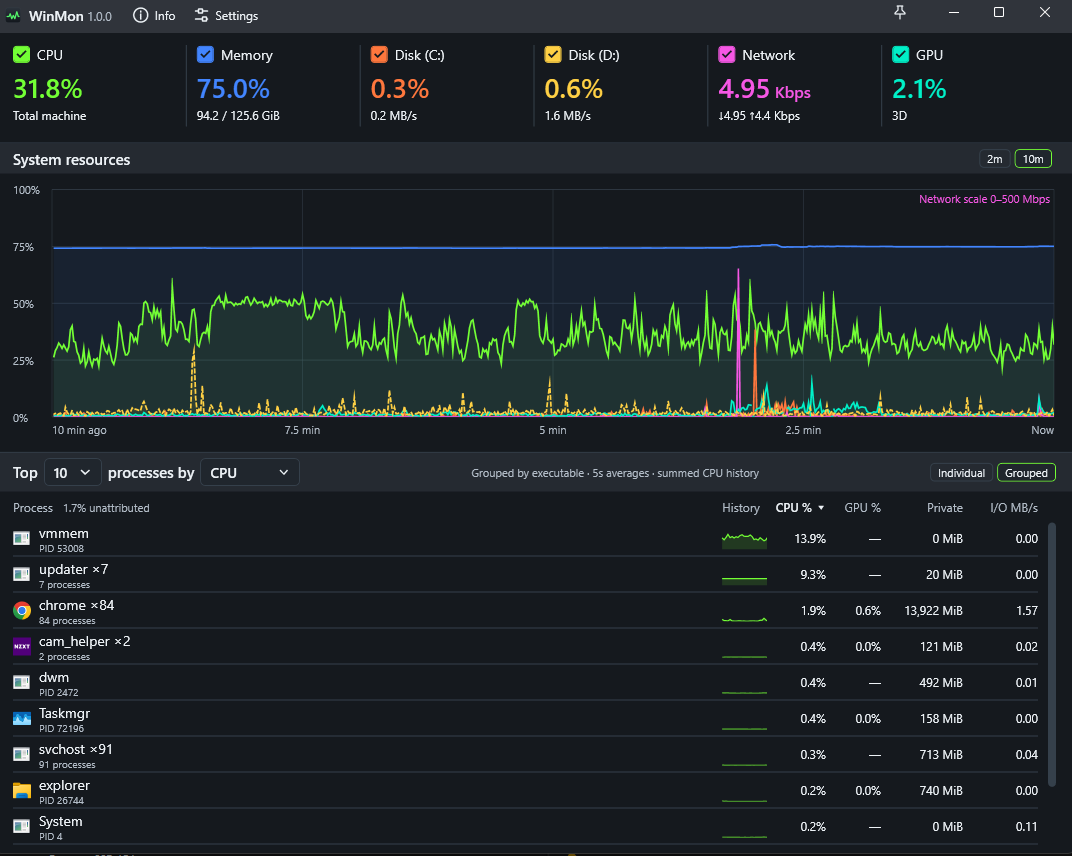
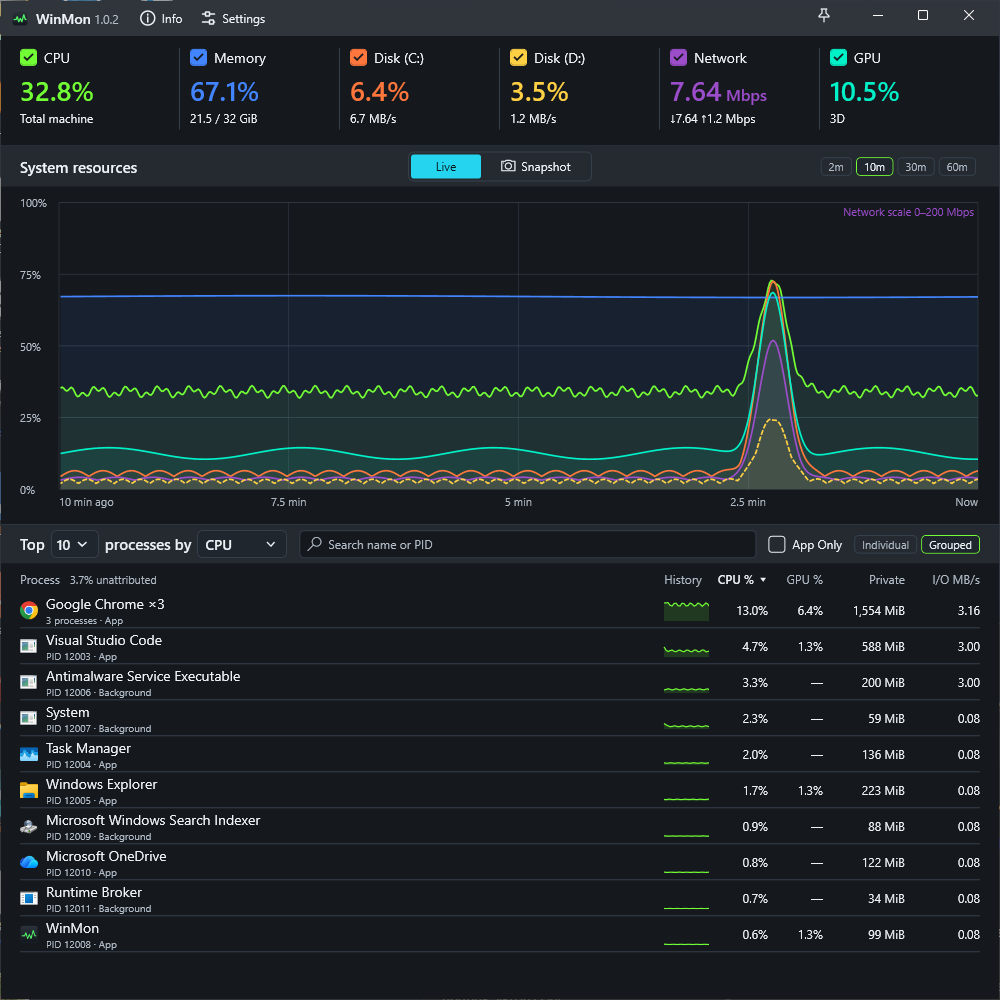
Refresh README and examples for the WinMon 1.0.2 UI

diff --git a/README.md b/README.md
@@ -10,6 +10,8 @@ WinMon brings CPU, memory, disk, network and GPU activity into one clear Windows
 
 ![WinMon live dashboard showing CPU, memory, two disks, network and GPU activity above individual process rankings](example/example_individual.png)
 
+*Screenshots show WinMon 1.0.2 with illustrative sample data.*
+
 ## Your system, at a glance
 
 Keep the whole picture in view while you work, play or troubleshoot. WinMon puts live resource readings above a shared timeline, so you can see how CPU spikes, disk activity and network transfers line up.
@@ -27,19 +29,42 @@ Browsers and other applications often spread their work across many processes. S
 
 Grouped GPU shows the busiest member; grouped memory uses private bytes to avoid counting shared working-set pages repeatedly.
 
+## Find the process you need
+
+Search the ranked list by application name, executable name or PID. Turn on **App Only** to focus on processes observed with an application window, and use the **App** / **Background** labels to understand each row. In Grouped mode, an executable is an app when any current member has an app window.
+
+The ranking controls, search field, App Only filter and grouping switches fit on one row at compact 720-DIP widths.
+
+![WinMon compact view with a chrome search and App Only enabled, showing the grouped Google Chrome result](example/example_apps_only.png)
+
 ## Catch the spike—even after it passes
 
-Click the chart to inspect a recorded moment. The snapshot shows resource readings for that interval, and the process table follows your selection so you can investigate what was busy then. The top readouts stay live while you explore.
+Choose **Snapshot** in the centered **Live | Snapshot** switch above the chart to inspect the newest recorded sample, or click the chart to select an earlier moment. The snapshot shows resource readings for that interval, and the process table follows your selection so you can investigate what was busy then. Recording and the top readouts stay live while you explore.
 
 ![WinMon historical snapshot showing interval resource readings and the process table at the selected time](example/example_snapshot.png)
 
-Use **Left / Right** to step through samples, **Home** to jump to the oldest visible sample, and **End**, **Escape** or **Return to live** to resume the live view.
+Click **Snapshot** again to select the newest sample. Use **Left / Right** to step through samples, **Home** to jump to the oldest visible sample, and **Live**, **End**, **Escape** or **Return to live** to resume the live view.
 
 History is kept in memory for the current session, with configurable retention up to 60 minutes. Available history can be shorter on busy systems and is cleared when WinMon exits.
 
 ## Make it yours
 
-Choose **Light**, **Dark** or **System** appearance, then pick a chart palette independently. Options include Classic, Ocean, Colorblind and high-contrast palettes, with consistent colors across resource readings, chart traces and process sparklines.
+Choose **Light**, **Dark** or **System** appearance, then pick a chart palette independently. Options include Classic, Ocean, Colorblind and high-contrast palettes, plus the new **Neon**, **Arcade** and **Tropical** choices. Palette names sort alphabetically in Settings; swatches and descriptions help you choose. Colors stay consistent across resource readings, chart traces and process sparklines.
+
+![WinMon light theme showing the same grouped dashboard with readable resource colors and the centered Live and Snapshot switch](example/example_light.png)
+
+<details>
+<summary>Compare the new palettes and view Settings</summary>
+
+| Neon | Arcade | Tropical |
+| --- | --- | --- |
+| [![Neon palette with vivid cyan, pink, lime and violet chart colors](example/example_neon.png)](example/example_neon.png) | [![Arcade palette with saturated primary and secondary chart colors](example/example_arcade.png)](example/example_arcade.png) | [![Tropical palette with warm colors balanced by blue and teal](example/example_tropical.png)](example/example_tropical.png) |
+
+The three custom palettes keep their supplied colors in both themes. Open an image for the full-size view.
+
+![WinMon Settings with the Neon palette swatches, theme selection, keyboard shortcut and two configured disks](example/example_settings.png)
+
+</details>
 
 Settings also let you choose disk volumes, history retention, startup at sign-in and notification-area behavior. The default show/hide shortcut is **Ctrl+Shift+M**.
 

diff --git a/example/README.md b/example/README.md
@@ -1,0 +1,17 @@
+# WinMon screenshot examples
+
+Captured October 20, 2026, using the WinMon 1.0.2 WPF application. These examples use illustrative process identities and measurements so the screenshots are consistent and do not expose a user's running processes. They are UI examples, not performance measurements.
+
+| File | View |
+| --- | --- |
+| [example_individual.png](example_individual.png) | Dark live dashboard, individual processes, dual disks and centered Live / Snapshot switch. |
+| [example_grouped.png](example_grouped.png) | The same recording grouped by executable, with App / Background labels and private-memory totals. |
+| [example_snapshot.png](example_snapshot.png) | An earlier spike selected in Snapshot mode while the top readouts remain live. |
+| [example_apps_only.png](example_apps_only.png) | Compact 720-DIP layout with a Chrome search and App Only enabled. |
+| [example_light.png](example_light.png) | Light appearance with the Classic palette. |
+| [example_neon.png](example_neon.png) | Neon palette. |
+| [example_arcade.png](example_arcade.png) | Arcade palette. |
+| [example_tropical.png](example_tropical.png) | Tropical palette. |
+| [example_settings.png](example_settings.png) | Settings with Neon selected, color swatches, keyboard shortcut and dual-disk choices. |
+
+The default and palette dashboard views use the same illustrative recording. The settings screenshot shows the real Settings controls; its disk choices reflect the capture machine. The existing snapshot card, process rows and native window controls are rendered by the app.
